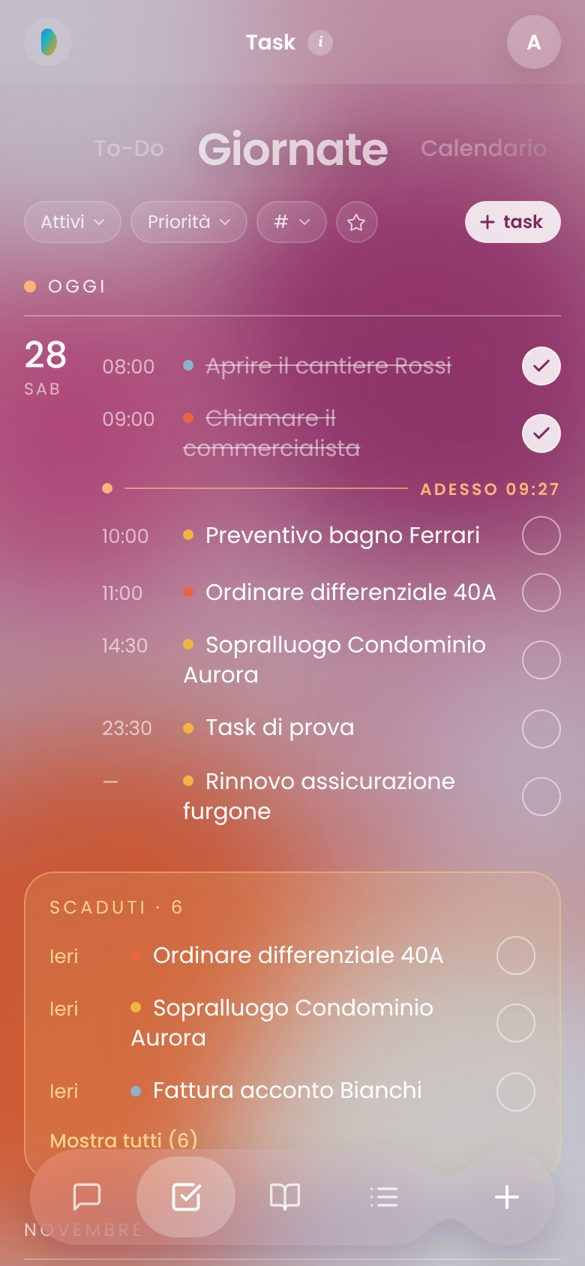
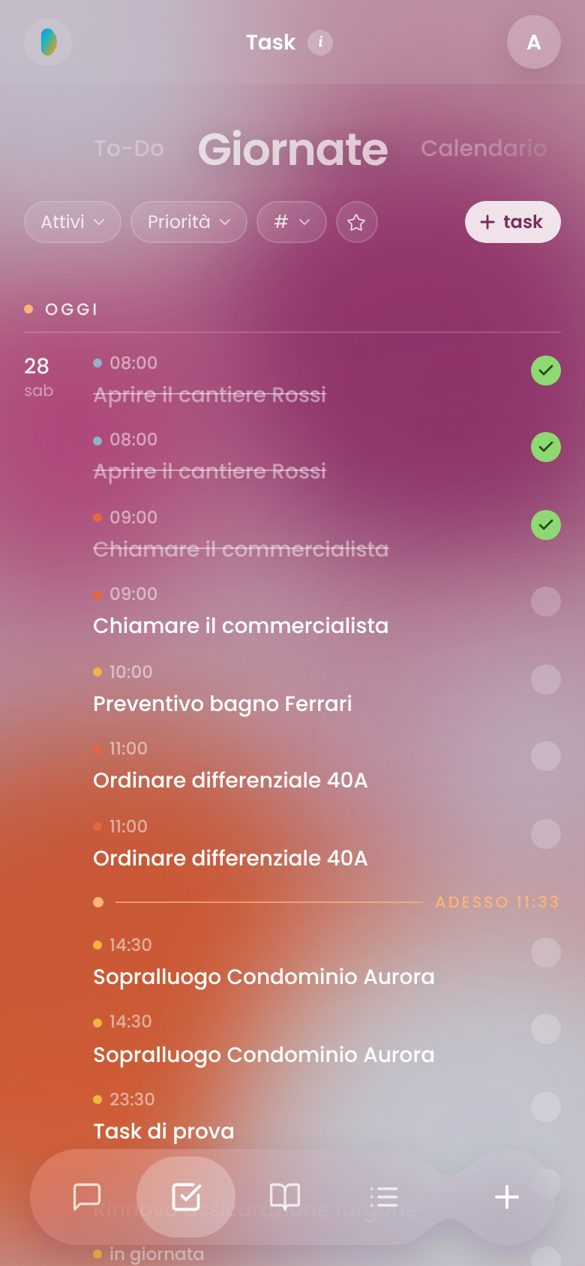
Task e To-Do: caratteri e misure come il diario di commessa
- Numero del giorno 14px a due cifre in una colonna di 34px (giorno della settimana sotto,
  piccolo); mesi e blocchi (Oggi, Senza data, Da fare...) in 11px maiuscolo spaziato;
  giorni e righe separati dalla linea sottile del diario.
- Task come una voce del diario: ora e priorità sulla riga piccola (11,5px), titolo 14px
  medio; spunta tonda di 20px, verde quando è fatto.
- To-Do: titoli 14px medi, passi 11,5px, righe con la linea del diario.
- Titoli delle viste sul computer a 30px come le sezioni del diario.
- FRONTEND.md e schermate aggiornate.

Claude-Session: https://claude.ai/code/session_01VfbXjVrWkHdaUBWCLnfX7C

diff --git a/frontend/src/pages/TaskBoardPage.jsx b/frontend/src/pages/TaskBoardPage.jsx
@@ -280,7 +280,7 @@ export default function TaskBoardPage() {
               <div className="flex items-baseline gap-6 mb-4" data-testid="view-tabs">
                 {VIEWS.filter((v) => v.key !== "todo").map((v) => (
                   <button key={v.key} type="button" onClick={() => setView(v.key)} data-testid={`view-${v.key}`} aria-current={leftView === v.key ? "page" : undefined}
-                    className={leftView === v.key ? "text-[26px] font-semibold tracking-tight text-white/[0.68]" : "text-[16px] font-medium text-white/50 hover:text-white/75"}>
+                    className={leftView === v.key ? "text-[30px] font-semibold tracking-tight text-white/[0.68]" : "text-[16px] font-medium text-white/50 hover:text-white/75"}>
                     {v.label}
                   </button>
                 ))}
@@ -290,7 +290,7 @@ export default function TaskBoardPage() {
             </div>
             <div className="min-w-0">
               <div className="mb-4 flex items-center justify-between">
-                <span className="text-[26px] font-semibold tracking-tight text-white/[0.68]" data-testid="todo-pane-title">To-Do</span>
+                <span className="text-[30px] font-semibold tracking-tight text-white/[0.68]" data-testid="todo-pane-title">To-Do</span>
                 {addBtn("Nuovo to-do", () => setNewTodo(NEW_TODO_FOLDER.da_fare), "new-todo-btn")}
               </div>
               {todoView}
@@ -356,44 +356,51 @@ function PillSelect({ label, value, onChange, options, testid }) {
   );
 }
 
-// the day on the left of its tasks: the number and the weekday
+/* The type, as in the diario di commessa: the day's number 14px (two digits) in a 34px column, the month's line 11px
+   in capitals spaced out, the days split by a thin line, the meta line 11.5px, the text 14px medium, the round tick
+   of 20px (green when done, as the activities of the diary). */
+const DAY_ROW = "grid grid-cols-[34px_minmax(0,1fr)] gap-x-3 py-3 border-t border-white/[0.16]";
+const LINE_ROW = "py-3 border-t border-white/[0.16]";
+
+// the day on the left of its tasks: the number (as in the diary) and, under it, the weekday
 function DayNum({ iso }) {
   const d = dateOf(iso);
   return (
-    <div className="flex flex-col gap-0.5">
-      <span className="text-[24px] font-medium leading-none text-white tabular-nums">{d.getDate()}</span>
-      <span className="text-[11px] tracking-[0.14em] text-white/60">{IT_WD_SHORT[d.getDay()]}</span>
+    <div className="flex flex-col">
+      <span className="text-[14px] font-medium leading-[1.45] text-white/90 tabular-nums">{String(d.getDate()).padStart(2, "0")}</span>
+      <span className="text-[10.5px] leading-tight text-white/45">{IT_WD_SHORT[d.getDay()].toLowerCase()}</span>
     </div>
   );
 }
 
-// the line on top of a block (Oggi, a month, Da fare...): the words and, on the right, how many
-function BlockHead({ children, right, testid, className = "text-white/75" }) {
+// the line on top of a block (Oggi, a month, Da fare...), as the diary's month: the words and, on the right, how many
+function BlockHead({ children, right, testid, className = "text-white/60" }) {
   return (
-    <div className={`flex items-center justify-between gap-3 text-[12px] tracking-[0.18em] uppercase pb-2.5 border-b border-white/30 ${className}`} data-testid={testid}>
-      <span className="flex items-center gap-2 min-w-0">{children}</span>
-      {right != null && <span className="shrink-0 text-white/60 tracking-[0.08em]">{right}</span>}
+    <div className="flex items-center justify-between gap-3 pt-4 pb-1.5" data-testid={testid}>
+      <span className={`flex items-center gap-2 min-w-0 text-[11px] font-medium tracking-[0.18em] uppercase whitespace-nowrap ${className}`}>{children}</span>
+      {right != null && <span className="shrink-0 text-[11px] text-white/50">{right}</span>}
     </div>
   );
 }
 
-// one task in the days, on one line: the hour on the left, the priority as a dot, the title; the round button completes it
-function TaskRow({ task, onOpen, onToggleDone, when, whenClass = "text-white/60" }) {
+// one task, as an entry of the diary: the hour and the priority on the small line, the title under it; the round
+// tick on the right completes it
+function TaskRow({ task, onOpen, onToggleDone, when, whenClass = "text-white/50", line = false }) {
   const prio = PRIORITY_META[task.priority];
   const done = !!task.completed;
   return (
-    <div className="flex items-center gap-2.5 py-1.5" data-testid={`task-${task.id}`}>
-      <button type="button" onClick={onOpen} className="flex-1 min-w-0 text-left flex items-baseline gap-2.5" data-testid="task-open">
-        <span className={`w-[44px] shrink-0 text-[13px] tabular-nums whitespace-nowrap ${whenClass}`}>{when ?? (task.due_time || "—")}</span>
-        <span className={`min-w-0 text-[15px] leading-[1.35] break-words ${done ? "line-through text-white/50" : "text-white"}`}>
-          {prio && <span className="inline-block w-[7px] h-[7px] rounded-full mr-2 align-middle -mt-0.5" style={{ background: prio.color }} title={`Priorità ${prio.label.toLowerCase()}`} />}
-          {task.title}
+    <div className={`flex items-start gap-3 ${line ? LINE_ROW : ""}`} data-testid={`task-${task.id}`}>
+      <button type="button" onClick={onOpen} className="flex-1 min-w-0 text-left" data-testid="task-open">
+        <span className={`flex items-center gap-[5px] text-[11.5px] font-medium tabular-nums ${whenClass}`}>
+          {prio && <span className="inline-block w-[6px] h-[6px] rounded-full" style={{ background: prio.color }} title={`Priorità ${prio.label.toLowerCase()}`} />}
+          {when ?? (task.due_time || "in giornata")}
         </span>
+        <span className={`block mt-[3px] text-[14px] font-medium leading-snug break-words ${done ? "line-through text-white/45" : "text-white"}`}>{task.title}</span>
       </button>
       <button type="button" data-testid="task-complete" onClick={onToggleDone} aria-label={done ? "Fatto: tocca per riaprirlo" : "Segna come fatto"}
         title={done ? "Riapri" : "Segna come fatto"}
-        className={`h-[26px] w-[26px] shrink-0 rounded-full border-[1.5px] border-white/50 flex items-center justify-center ${done ? "bg-white/85 text-[#7A2A5C]" : "text-transparent"}`}>
-        <Check size={14} strokeWidth={2.6} />
+        className={`mt-[3px] h-5 w-5 shrink-0 rounded-full flex items-center justify-center backdrop-blur-md ${done ? "bg-[#8ED973] text-[#1F4D17]" : "bg-white/20"}`}>
+        {done && <Check size={12} strokeWidth={2.8} />}
       </button>
     </div>
   );
@@ -424,9 +431,9 @@ function MonthsAndDays({ tasks, dayOf, desc, rowProps, today }) {
       <section key={m.key} className="flex flex-col" data-testid={`month-${m.key}`}>
         <BlockHead>{IT_MONTHS_LONG[mo - 1]}{y !== year ? ` ${y}` : ""}</BlockHead>
         {m.days.map((g) => (
-          <div key={g.day} className="grid grid-cols-[52px_minmax(0,1fr)] pt-3.5" data-testid={`day-${g.day}`}>
+          <div key={g.day} className={DAY_ROW} data-testid={`day-${g.day}`}>
             <DayNum iso={g.day} />
-            <div className="flex flex-col">
+            <div className="flex flex-col gap-3">
               {g.items.map((t) => <TaskRow key={t.id} task={t} {...rowProps(t)} />)}
             </div>
           </div>
@@ -461,7 +468,7 @@ function Giornate({ tasks, status, now, today, onOpen, onToggleDone }) {
   let nowAt = timed.findIndex((t) => t.due_time > nowHm);
   if (nowAt < 0) nowAt = timed.length;
   const nowLine = (
-    <div key="now" className="flex items-center gap-2 pt-0.5 pb-1 text-[11px] font-semibold tracking-[0.14em] uppercase tt-now" data-testid="now-line">
+    <div key="now" className="flex items-center gap-2 text-[10.5px] font-medium tracking-[0.14em] uppercase tt-now" data-testid="now-line">
       <span className="w-[7px] h-[7px] rounded-full tt-now-bg" />
       <span className="flex-1 h-px tt-now-bg opacity-70" />
       Adesso {nowHm}
@@ -478,17 +485,17 @@ function Giornate({ tasks, status, now, today, onOpen, onToggleDone }) {
   const lateShown = allLate ? late : late.slice(0, 3);
 
   return (
-    <div className="flex flex-col gap-6" data-testid="giornate">
+    <div className="flex flex-col gap-2" data-testid="giornate">
       {/* TODAY: always first, by the hour they start */}
       <section className="flex flex-col" data-testid="giornate-oggi">
-        <BlockHead className="text-white/90">
-          <span className="w-2 h-2 rounded-full tt-now-bg shrink-0" />Oggi
+        <BlockHead className="text-white/85">
+          <span className="w-[6px] h-[6px] rounded-full tt-now-bg shrink-0" />Oggi
         </BlockHead>
-        <div className="grid grid-cols-[52px_minmax(0,1fr)] pt-3.5">
+        <div className={DAY_ROW}>
           <DayNum iso={today} />
-          <div className="flex flex-col">
+          <div className="flex flex-col gap-3">
             {todayRows}
-            {todays.length === 0 && <div className="py-1.5 text-[14px] text-white/60" data-testid="today-empty">Niente in programma per oggi.</div>}
+            {todays.length === 0 && <div className="text-[14px] leading-[1.45] text-white/60" data-testid="today-empty">Niente in programma per oggi.</div>}
           </div>
         </div>
       </section>
@@ -496,14 +503,14 @@ function Giornate({ tasks, status, now, today, onOpen, onToggleDone }) {
       {/* LATE: right after today */}
       {late.length > 0 && (
         <section className="tt-late-box rounded-[20px] px-4 py-3.5" data-testid="giornate-scaduti">
-          <div className="text-[12px] tracking-[0.18em] uppercase tt-late">Scaduti · {late.length}</div>
-          <div className="mt-1 flex flex-col">
+          <div className="text-[11px] font-medium tracking-[0.18em] uppercase tt-late">Scaduti · {late.length}</div>
+          <div className="mt-3 flex flex-col gap-3">
             {lateShown.map((t) => (
-              <TaskRow key={t.id} task={t} {...rowProps(t)} whenClass="tt-late" when={lateDay(t.due_date, today)} />
+              <TaskRow key={t.id} task={t} {...rowProps(t)} whenClass="tt-late" when={`${lateDay(t.due_date, today)}${t.due_time ? ` · ${t.due_time}` : ""}`} />
             ))}
           </div>
           {late.length > 3 && (
-            <button type="button" onClick={() => setAllLate((v) => !v)} data-testid="late-more" className="mt-1 text-[13px] font-medium tt-late">
+            <button type="button" onClick={() => setAllLate((v) => !v)} data-testid="late-more" className="mt-3 text-[12px] font-medium tt-late">
               {allLate ? "Mostra meno" : `Mostra tutti (${late.length})`}
             </button>
           )}
@@ -516,8 +523,8 @@ function Giornate({ tasks, status, now, today, onOpen, onToggleDone }) {
       {undated.length > 0 && (
         <section className="flex flex-col" data-testid="giornate-senza-data">
           <BlockHead>Senza data</BlockHead>
-          <div className="pt-1.5 flex flex-col">
-            {undated.map((t) => <TaskRow key={t.id} task={t} {...rowProps(t)} />)}
+          <div className="flex flex-col">
+            {undated.map((t) => <TaskRow key={t.id} task={t} {...rowProps(t)} when="senza data" line />)}
           </div>
         </section>
       )}
@@ -582,14 +589,14 @@ function MonthView({ tasks, today, day, onDay, onOpen, onToggleDone }) {
         </div>
       </div>
       <section className="flex flex-col" data-testid="cal-day-list">
-        <BlockHead className="text-white/90">
+        <BlockHead className="text-white/85">
           {day === today ? "Oggi · " : ""}{IT_WD_LONG[dd.getDay()]} {dd.getDate()} {IT_MONTHS_LONG[dd.getMonth()]}
         </BlockHead>
-        <div className="pt-1.5 flex flex-col">
+        <div className="flex flex-col">
           {dayTasks.map((t) => (
-            <TaskRow key={t.id} task={t} onOpen={() => onOpen(t.id)} onToggleDone={() => onToggleDone(t.id, !!t.completed)} />
+            <TaskRow key={t.id} task={t} line onOpen={() => onOpen(t.id)} onToggleDone={() => onToggleDone(t.id, !!t.completed)} />
           ))}
-          {dayTasks.length === 0 && <div className="py-3 text-[14px] text-white/60">Nessun task in questo giorno.</div>}
+          {dayTasks.length === 0 && <div className={`${LINE_ROW} text-[14px] leading-[1.45] text-white/60`}>Nessun task in questo giorno.</div>}
         </div>
       </section>
     </div>
@@ -600,15 +607,15 @@ function MonthView({ tasks, today, day, onDay, onOpen, onToggleDone }) {
 function TodoGroups({ todos, sortTodos, onOpen, onAdd, onMove, onDelete, onToggleFav }) {
   const [allDone, setAllDone] = useState(false);
   return (
-    <div className="flex flex-col gap-6" data-testid="todo-groups">
+    <div className="flex flex-col gap-2" data-testid="todo-groups">
       {TODO_GROUPS.map((g) => {
         const items = sortTodos(todos.filter((t) => t.status === g.key));
         const list = g.key === "fatto" && !allDone ? items.slice(0, 5) : items;
         return (
           <section key={g.key} className="flex flex-col" data-testid={`todo-group-${g.key}`}>
-            <div className="flex items-center justify-between gap-3 pb-2 border-b border-white/30">
-              <span className="flex items-center gap-2 text-[12px] tracking-[0.18em] uppercase text-white/90">
-                <span className="w-2 h-2 rounded-full" style={{ background: g.dot }} />{g.label} <span className="text-white/55" data-testid={`todo-count-${g.key}`}>{items.length}</span>
+            <div className="flex items-center justify-between gap-3 pt-4 pb-1.5">
+              <span className="flex items-center gap-2 text-[11px] font-medium tracking-[0.18em] uppercase text-white/60 whitespace-nowrap">
+                <span className="w-[6px] h-[6px] rounded-full" style={{ background: g.dot }} />{g.label} <span className="text-white/45" data-testid={`todo-count-${g.key}`}>{items.length}</span>
               </span>
               <button type="button" onClick={() => onAdd(g.key)} data-testid={`todo-add-${g.key}`} aria-label={`Nuovo to-do in ${g.label}`} title={`Nuovo to-do in ${g.label}`}
                 className="h-7 w-7 rounded-full bg-white/15 text-white flex items-center justify-center">
@@ -618,9 +625,9 @@ function TodoGroups({ todos, sortTodos, onOpen, onAdd, onMove, onDelete, onToggl
             {list.map((t) => (
               <TodoRow key={t.id} todo={t} onOpen={() => onOpen(t)} onMove={(s) => onMove(t, s)} onDelete={() => onDelete(t.id)} onToggleFav={() => onToggleFav(t.id, !!t.favorite)} />
             ))}
-            {items.length === 0 && <div className="py-2.5 text-[13px] text-white/50">Nessuno</div>}
+            {items.length === 0 && <div className={`${LINE_ROW} text-[14px] leading-[1.45] text-white/50`}>Nessuno</div>}
             {g.key === "fatto" && items.length > 5 && (
-              <button type="button" onClick={() => setAllDone((v) => !v)} data-testid="todo-done-more" className="mt-2 self-start text-[13px] font-medium text-white/75">
+              <button type="button" onClick={() => setAllDone((v) => !v)} data-testid="todo-done-more" className="mt-1 self-start text-[12px] font-medium text-white/70">
                 {allDone ? "Mostra meno" : `Mostra tutti (${items.length})`}
               </button>
             )}
@@ -649,15 +656,15 @@ function TodoRow({ todo, onOpen, onMove, onDelete, onToggleFav }) {
   const pick = (fn) => () => { setMenu(false); fn(); };
   // one line: the priority as a dot, the title, how many steps are done; in corso a thin bar under it
   return (
-    <div className="flex items-center gap-2 py-2 border-b border-white/10" data-testid={`todo-${todo.id}`}>
+    <div className={`flex items-start gap-2 ${LINE_ROW}`} data-testid={`todo-${todo.id}`}>
       <button type="button" onClick={onOpen} className="flex-1 min-w-0 text-left flex flex-col gap-1.5" data-testid="todo-open">
         <span className="flex items-baseline gap-2 min-w-0">
-          <span className={`min-w-0 flex-1 text-[15px] leading-[1.35] break-words ${done ? "line-through text-white/50" : "text-white"}`}>
-            {prio && <span className="inline-block w-[7px] h-[7px] rounded-full mr-2 align-middle -mt-0.5" style={{ background: prio.color }} title={`Priorità ${prio.label.toLowerCase()}`} />}
+          <span className={`min-w-0 flex-1 text-[14px] font-medium leading-snug break-words ${done ? "line-through text-white/45" : "text-white"}`}>
+            {prio && <span className="inline-block w-[6px] h-[6px] rounded-full mr-2 align-middle -mt-0.5" style={{ background: prio.color }} title={`Priorità ${prio.label.toLowerCase()}`} />}
             {todo.title}
             {todo.favorite && <Star size={12} className="inline ml-1.5 -mt-0.5 fill-current text-white/60" aria-label="Preferito" />}
           </span>
-          {steps.length > 0 && <span className="shrink-0 text-[12px] text-white/55 tabular-nums" title="Passi fatti" data-testid="todo-steps">{stepsDone}/{steps.length}</span>}
+          {steps.length > 0 && <span className="shrink-0 text-[11.5px] font-medium text-white/50 tabular-nums" title="Passi fatti" data-testid="todo-steps">{stepsDone}/{steps.length}</span>}
         </span>
         {todo.status === "in_corso" && pct > 0 && (
           <span className="block h-[3px] rounded-full bg-white/20 overflow-hidden" title={`${pct}%`}>
@@ -666,7 +673,7 @@ function TodoRow({ todo, onOpen, onMove, onDelete, onToggleFav }) {
         )}
       </button>
       <button ref={btn} type="button" onClick={() => setMenu((v) => !v)} data-testid="todo-menu" aria-label="Sposta, segna fatto o elimina" aria-expanded={menu}
-        className="h-7 w-7 shrink-0 rounded-full text-white/60 hover:bg-white/10 flex items-center justify-center">
+        className="-mt-1 h-7 w-7 shrink-0 rounded-full text-white/60 hover:bg-white/10 flex items-center justify-center">
         <MoreHorizontal size={16} />
       </button>
       {menu && (

diff --git a/docs/FRONTEND.md b/docs/FRONTEND.md
@@ -220,7 +220,7 @@ Sul telefono è costruita come la pagina iniziale di un browser. Dall'alto:
 
 <img src="screens/m09-task.jpg" width="230"> <img src="screens/m10-todo.jpg" width="230"> <img src="screens/m26-help-sezione.jpg" width="230">
 
-Una sola sezione, «Task» nei menu, titolo «Task e To-Do», fatta come il diario di commessa. L'indirizzo `?v=todo` / `?v=calendario` sceglie la vista (senza, Giornate).
+Una sola sezione, «Task» nei menu, titolo «Task e To-Do», fatta come il diario di commessa, con le sue misure: numero del giorno 14px (due cifre) in una colonna di 34px con il giorno della settimana sotto, mesi e blocchi in 11px maiuscolo spaziato, giorni e righe separati da una linea sottile (`border-white/[0.16]`), ora e dettagli 11,5px, titoli 14px medi, spunta tonda di 20px (verde quando è fatto). L'indirizzo `?v=todo` / `?v=calendario` sceglie la vista (senza, Giornate).
 
 - **In alto** le viste a parole grandi, come le sezioni del diario: **To-Do · Giornate · Calendario**; quella scelta al centro, un tocco o uno scorrimento su quelle di lato cambia vista. Niente titolo e niente indicatori: la barra in alto dice già «Task».
 - **Una riga di filtri piccoli** (`PillSelect`, pillole alte 28 px; la tendina nativa invisibile sopra, a 16 px, così l'iPhone non ingrandisce): Attivi/Fatti (solo task), Priorità, # (tag, solo se ce ne sono), stella dei preferiti; a destra **+ task** / **+ to-do**.
